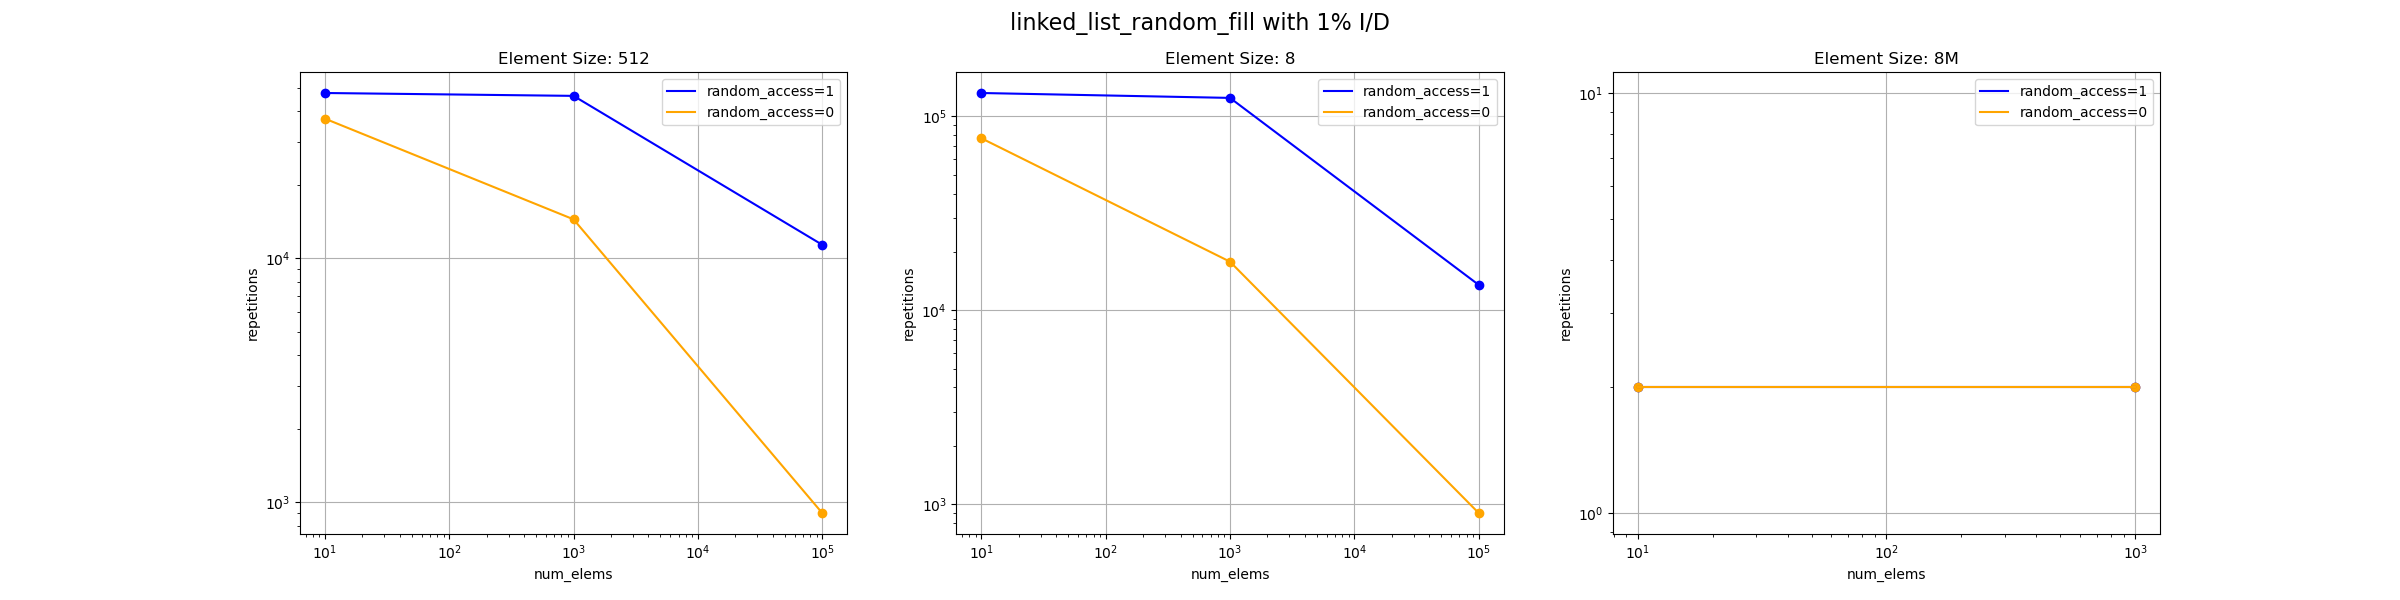
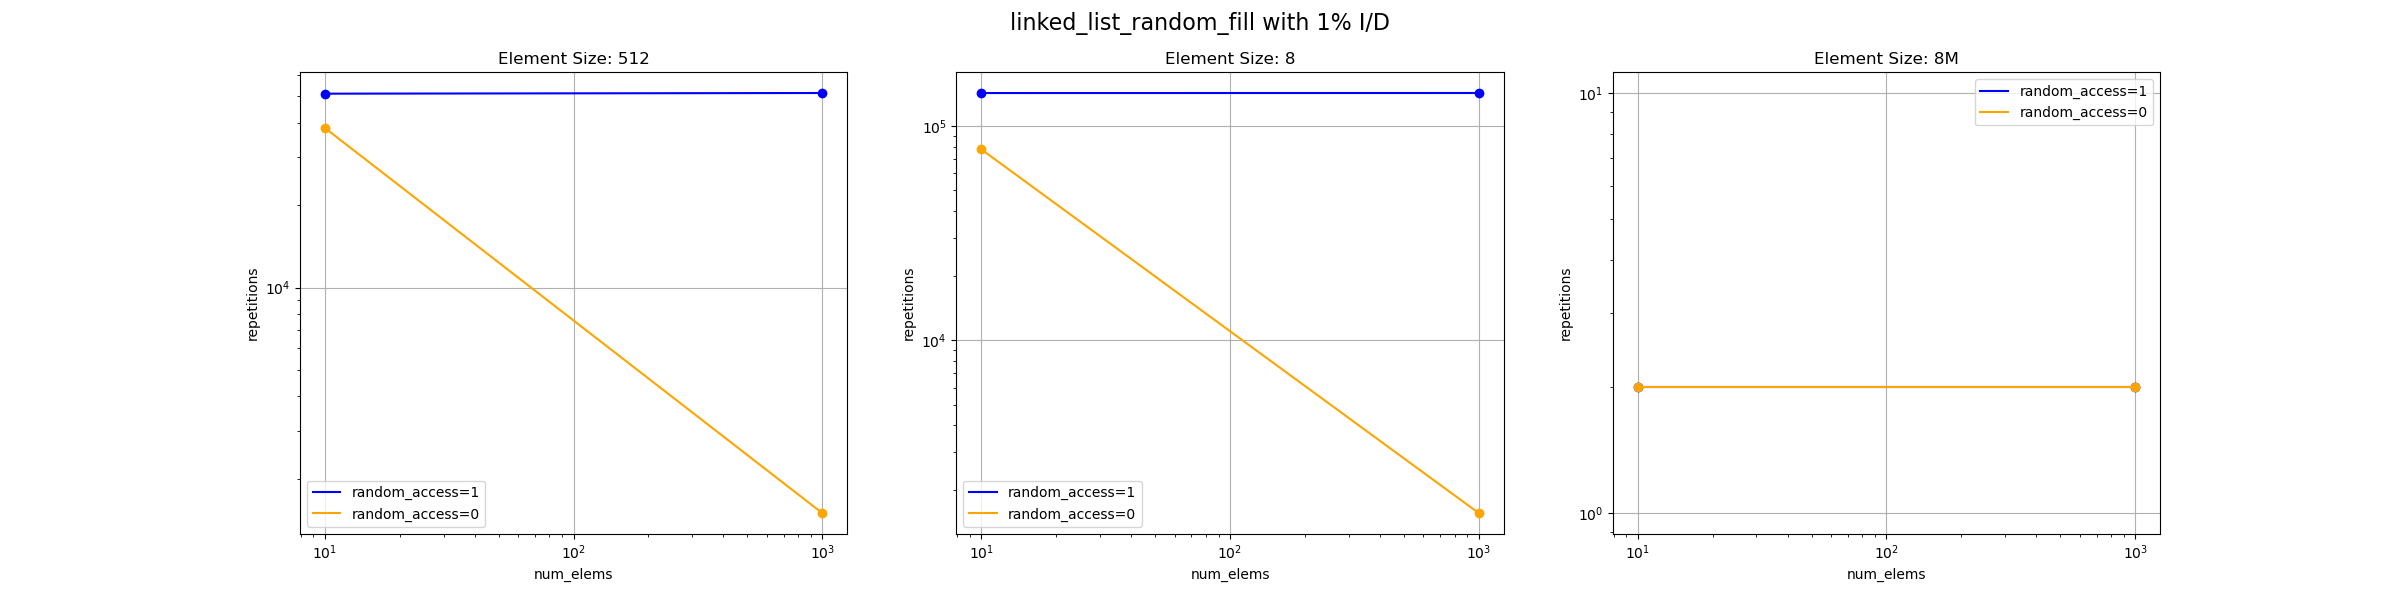
fix tiered plotting

diff --git a/exercises/10/plot.py b/exercises/10/plot.py
@@ -7,7 +7,8 @@ def plot_for_name(df, name):
     grouped = df.groupby("ins_mix")
     for ins_mix, group in grouped:
         fig, axs = plt.subplots(
-            1, len(group["elem_size"].unique()),  # Changed here
+            1,
+            len(group["elem_size"].unique()),  # Changed here
             figsize=(8 * len(group["elem_size"].unique()), 6),  # Changed here
         )
         fig.suptitle(f"{name} with {ins_mix}% I/D", fontsize=16)
@@ -61,6 +62,6 @@ if __name__ == "__main__":
     df_linked = df[(df["name"] == "linked list") & (df["fill_random"] == 0)]
     plot_for_name(df_linked, "linked_list")
     df_linked_random = df[(df["name"] == "linked list") & (df["fill_random"] == 1)]
-    plot_for_name(df_linked_random, "linked list random fill")
-    df_tiered= df[(df["name"] == "tiered list") & (df["fill_random"] == 0)]
-    plot_for_name(df_tiered, "linked_list_random_fill")
+    plot_for_name(df_linked_random, "linked_list_random_fill")
+    df_tiered = df[(df["name"] == "tiered list") & (df["fill_random"] == 0)]
+    plot_for_name(df_tiered, "tiered_list")

diff --git a/exercises/10/README.md b/exercises/10/README.md
@@ -18,6 +18,12 @@ make all
 ![image](./images/linked_list_ins_mix_10.png)
 ![image](./images/linked_list_ins_mix_50.png)
 
+# Linked List Random Init
+![image](./images/linked_list_random_fill_ins_mix_0.png)
+![image](./images/linked_list_random_fill_ins_mix_1.png)
+![image](./images/linked_list_random_fill_ins_mix_10.png)
+![image](./images/linked_list_random_fill_ins_mix_50.png)
+
 # Tiered List
 ![image](./images/tiered_list_ins_mix_0.png)
 ![image](./images/tiered_list_ins_mix_1.png)
